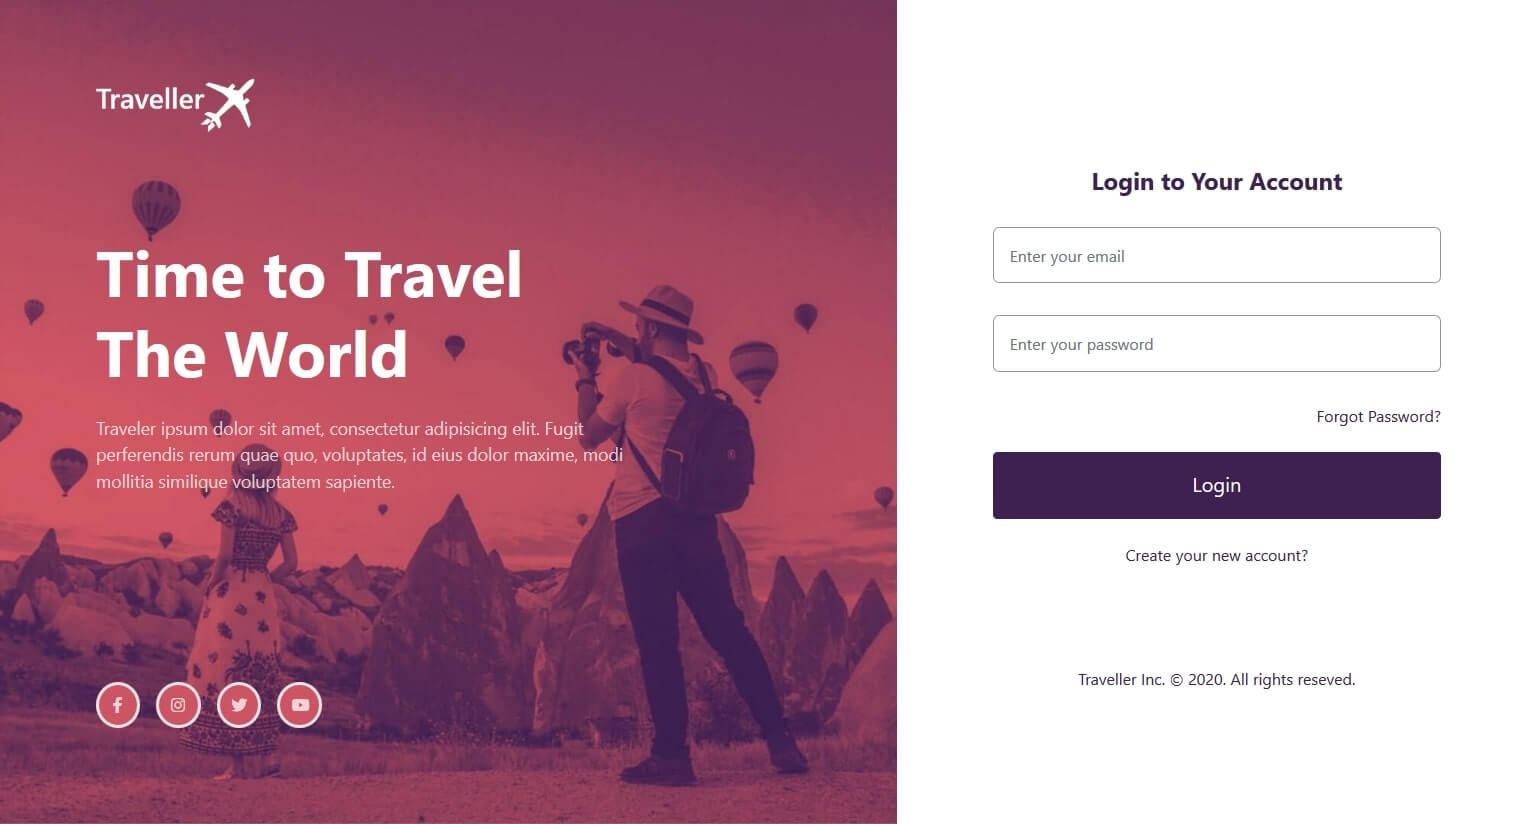
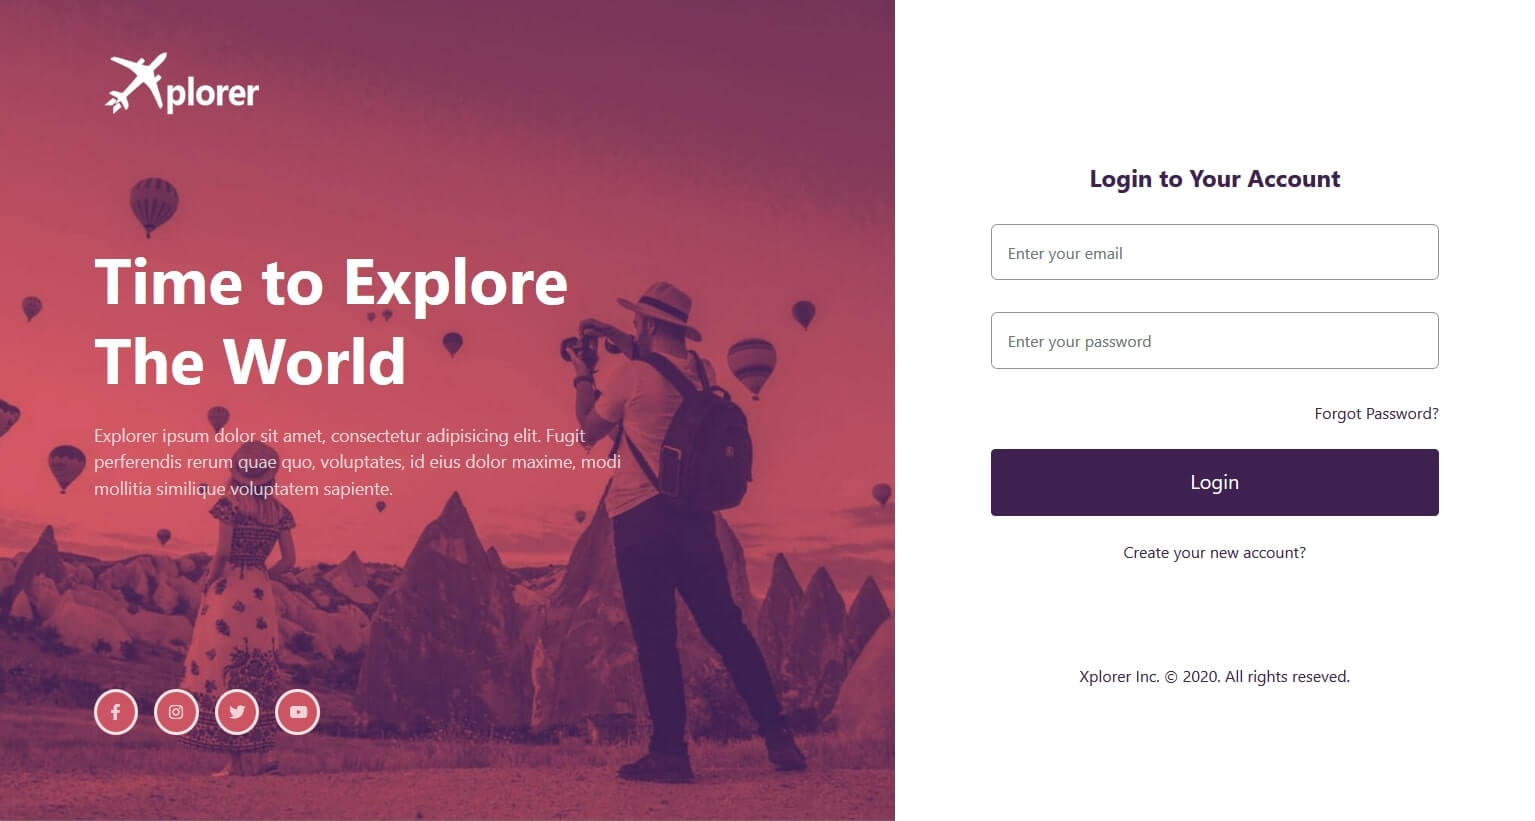
Updated readme & new screenshot

diff --git a/README.md b/README.md
@@ -3,9 +3,5 @@
 <img src="img/screenshot.jpg" alt="Screenshot">
 
 ## :book: Todos
- - Change logo and images
  - Implement browser fixes
- - Implement responsive views
-
-## :rocket: Complete
- - Initialized git
+ - Fix responsive views
